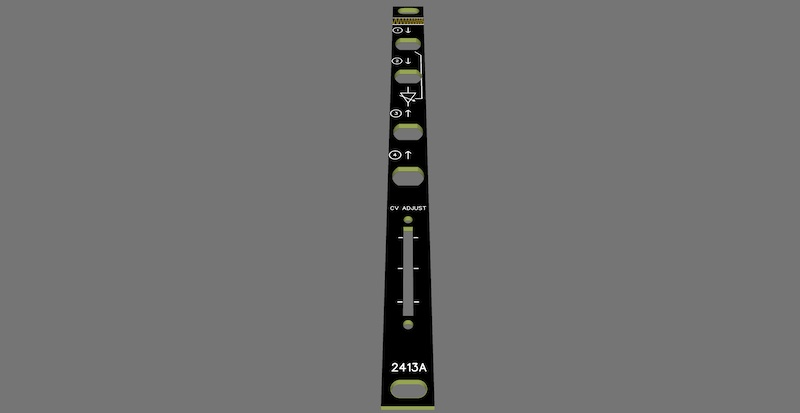
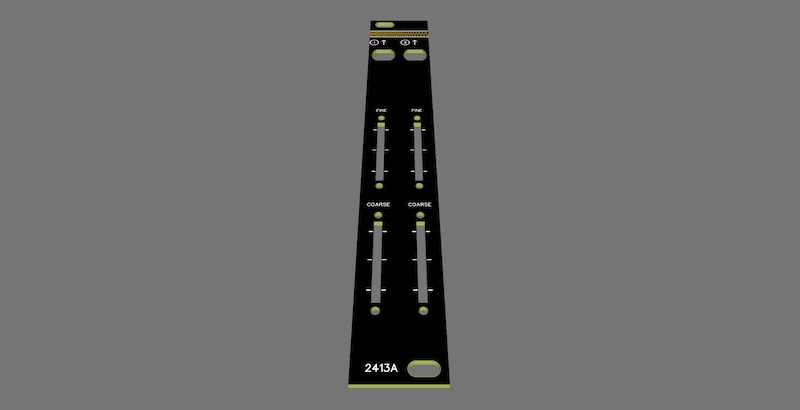
Update 2413A description

Changed region(s): [[0.4375, 0.0, 0.5625, 0.9951]]

diff --git a/readme.md b/readme.md
@@ -5,8 +5,8 @@ This repository contains design files and software source code for my open sourc
 | **2320A MIDI Router**<br><br>![2320A](./images/2320A.jpg)<br><br>This module provides two MIDI inputs and two MIDI outputs, and allows MIDI messages to be routed, combined or split. | Under development |
 | **[2411A Adjustable CV output](./2411A/)**<br><br>![2411A](./images/2411A.jpg)<br><br>This module allows a user to select an output voltage by adjusting the corse and fine adjust sliders. Output voltage ranges are selectable by changing the positions of two switches on the rear. Voltage output ranges are 12V to -12V, 12V to 0V, 5V to -12V and 5V to 0V. | Final Testing |
 | **2412A Dual Adjustable CV output**<br><br>![2412A](./images/2412A.jpg)<br><br>This module allows a user to select two output voltages by adjusting a corse adjust slider for each output. Output voltage ranges are selectable by changing the positions of two switches on the rear. Voltage output ranges are 12V to -12V, 12V to 0V, 5V to -12V and 5V to 0V. | Final testing |
-| **2413A Voltage Controlled Amplifier**<br><br>![2413A](./images/2413A.jpg)<br><br>This module mixes two inputs, then feeds the mix through a voltage-controlled amplifier. The offset of the CV input can be adjusted using a slider, or the slider can be used to adjust the amplification without a CV input connected. | Under development |
-| **2414A Quad Adjustable CV output**<br><br>![2414A](./images/2414A.jpg)<br><br>This module includes two 2412A functional blocks with a common power connector | Final testing |
+| **2413A Dual Adjustable CV output**<br><br>![2413A](./images/2413A.jpg)<br><br>This module includes two 2411A functional blocks with a common power connector. | Final testing |
+| **2414A Quad Adjustable CV output**<br><br>![2414A](./images/2414A.jpg)<br><br>This module includes two 2412A functional blocks with a common power connector. | Final testing |
 | **[2415A Adjustable attenuator](./2415A/)**<br><br>![2415A](./images/2415A.jpg)<br><br>This module mixes two inputs, then feeds the mix through an adjustable attenuator, and provides two buffered outputs. The degree of attenuation is controlled using a slider. | Final testing |
 | **[2416A Dual Adjustable attenuator](./2416A/)**<br><br>![2416A](./images/2416A.jpg)<br><br>This module includes two 2415A functional blocks with a common power connector. | Final testing |
 | **2420A Adjustable gain amplifier**<br><br>![2420A](./images/2420A.jpg)<br><br>This module provides variable amplification, with both the output voltage offset and the amplification being adjustable using two sliders. | Under development |
